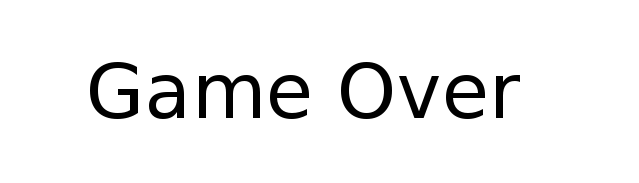
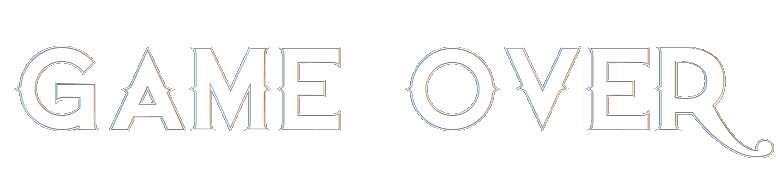
Ajout nouvelles images et maj comportementale
Même commit que le précédent dans le bon dossier.

Changed region(s): [[0.0, 0.2473, 1.0, 0.8516], [0.9515, 0.8516, 0.9812, 0.8791], [0.5649, 0.2473, 0.5947, 0.2747]]

diff --git a/project/src/enemy.h b/project/src/enemy.h
@@ -21,6 +21,10 @@ namespace iv = irr::video;
 namespace ig = irr::gui;
 
 #define ATTACK_DIST_ENEMY 45
+#define ANGLE_NORMAL 60
+#define ANGLE_FURTIF 45
+#define RAYON_NORMAL 500
+#define RAYON_FURTIF 300
 
 /**
  * @brief Classe Enemy, herite de la classe Characters
@@ -53,7 +57,7 @@ public:
      * @param playerPosition : position du joueur
      * @param collMan : pointeur sur le gestionnaire de collision
      */
-    bool isPlayerInEnemyView(const ic::vector3df& playerPosition, irr::scene::ISceneCollisionManager *collMan);
+    void isPlayerInEnemyView(const ic::vector3df& playerPosition, irr::scene::ISceneCollisionManager *collMan);
 
     /**
      * @brief Access a l'angle de vue de l'ennemi (1/2 du vrai angle de vision)
@@ -76,8 +80,9 @@ public:
      * @param playerPosition : la position du joueur
      * @param frameDeltaTime : delta t entre les frames
      * @param collMan : manager de collision
+     * @param isPlayerFurtif : true si le joueur est en position furtive, false sinon
      */
-    bool normalBehaviour(ic::vector3df playerPosition, const irr::f32 frameDeltaTime, irr::scene::ISceneCollisionManager *collMan);
+    bool normalBehaviour(ic::vector3df playerPosition, const irr::f32 frameDeltaTime, irr::scene::ISceneCollisionManager *collMan, bool isPlayerFurtif);
 
     /**
      * @brief Fonction de prise de degats.
@@ -98,18 +103,16 @@ private:
     void idle();
 
     /**
-     * @brief Methode utilisé pour suivre le joueur, avance simplement la position de l'ennemi en direction du joueur selon le delta T en mettant une animation de run
-     * Si la distance entre la position actuelle de l'ennemi et sa position precedemment enregistre est superieur a X, on l'enregistre
+     * @brief Methode utilisé pour suivre le joueur, avance simplement la position de l'ennemi en direction du joueur selon le delta T en mettant une animation de run.
+     * Si la distance entre la position actuelle de l'ennemi et sa position precedemment enregistre est superieur a X, on l'enregistre.
      * @param playerPosition : la position actuelle du joueur
      * @param frameDeltaTime : le delta t correspondant a la frame actuelle
-     * @param sizePositions : la taille du tableau de positions
      */
     void followPlayer(ic::vector3df playerPosition, const irr::f32 frameDeltaTime);
 
     /**
      * @brief Fonction de retour a la position initiale de l'ennemi : l'ennemi parcours les positions enregistre jusqu'a arrive a celle de départ
      * @param frameDeltaTime : delta T entre les frames, utilisé pour déplacé l'ennemi
-     * @param sizePositions : la taille du tableau de positions
      */
     void getBackToOriginalPosition(const irr::f32 frameDeltaTime);
 
@@ -122,7 +125,7 @@ private:
     /**
      * @brief Determine si l ennemi peut attaquer ou non.
      * Il peut attaquer s il n est pas deja en train, s il ne subit pas une attaque (sauf s il lui reste un point de vie unique).
-     * @return true si on peut attaquer, false sinon.
+     * @return true si l ennemi peut attaquer, false sinon.
      */
     bool canAttack();
 
@@ -141,14 +144,24 @@ private:
      */
     void attack();
 
-    int angleViewEnemy;                 /*!< Angle de vision de l'ennemi par rapport au centre de sa vision */
-    int rayonDetection;                 /*!< Rayon de detection de l ennemi */
-    bool isPlayerVisible;                 /*!< Booleen indiquant si le joueur est visible par l'ennemi */
-    bool isAlerted;                     /*!< Booleen indiquant si l'ennemi est en etat d'alerte */
-    int distWithPlayer;                 /*!< distance avec le joueur */
-    ic::array<ic::vector3df> alertedPositions; /*!< Positions successives de l'ennemi pour retour en etat non alerte */
-    Path followedPath;  /*!< Path suivi par l'ennemi */
-    bool hitted;
+    /**
+     * @brief Met a jour les variables de detection en fonction de l etat d alerte de l ennemi.
+     */
+    void updateDetectParameter(bool isPlayerFurtif);
+
+    /**
+     * @brief Met a jour la vitesse en fonction de l etat d alerte de l ennemi.
+     */
+    void updateSpeed();
+
+    int angleViewEnemy;                         /*!< Angle de vision de l'ennemi par rapport au centre de sa vision */
+    int rayonDetection;                         /*!< Rayon de detection de l ennemi */
+    bool isPlayerVisible;                       /*!< Booleen indiquant si le joueur est visible par l'ennemi */
+    bool isAlerted;                             /*!< Booleen indiquant si l'ennemi est en etat d'alerte */
+    int distWithPlayer;                         /*!< distance avec le joueur */
+    ic::array<ic::vector3df> alertedPositions;  /*!< Positions successives de l'ennemi pour retour en etat non alerte */
+    Path followedPath;                          /*!< Path suivi par l'ennemi */
+    bool hitted;                                /*!< Booleen indiquant si l ennemi a ete touche par une attaque */
 };
 
 #endif

diff --git a/project/src/enemy.cpp b/project/src/enemy.cpp
@@ -7,12 +7,12 @@
 #include "enemy.h"
 
 Enemy::Enemy(is::IAnimatedMeshSceneNode* _node, is::EMD2_ANIMATION_TYPE _animation, float _speed)
-    : Characters (_node, _animation, _speed), angleViewEnemy(45), rayonDetection(300), isPlayerVisible(false), isAlerted(false), hitted(false)
+    : Characters (_node, _animation, _speed), angleViewEnemy(ANGLE_NORMAL), rayonDetection(RAYON_NORMAL), isPlayerVisible(false), isAlerted(false), hitted(false)
 {
     int startingPos = rand()%4;
     followedPath = Path(startingPos);
-    followedPath.initRectangularPath(getPosition(), 100);//Initialisation d'un chemin rectangulaire centre sur l'ennemi
-    node->setPosition(followedPath.pathPositions[startingPos]);//La position de l'ennemi est place sur la premiere position du chemin
+    followedPath.initRectangularPath(getPosition(), 100);       //Initialisation d'un chemin rectangulaire centre sur l'ennemi
+    node->setPosition(followedPath.pathPositions[startingPos]); //La position de l'ennemi est place sur la premiere position du chemin
     node->setVisible(true);
 }
 
@@ -64,7 +64,8 @@ bool Enemy::canAttack()
     if(isAttacking)
         return false;
 
-    if (((life == 1) || (distWithPlayer <= ATTACK_DIST_ENEMY && !isSuffering)) && isPlayerVisible)
+    // si l ennemi est suffisament proche, qu il voit le joueur et qu il est 1 de vie ou ne soit pas en train de souffrir
+    if(distWithPlayer <= ATTACK_DIST_ENEMY && isPlayerVisible && (life == 1 || !isSuffering))
     {
         attack();
         return true;
@@ -79,6 +80,28 @@ void Enemy::attack()
     node->setLoopMode(false);
     node->setAnimationEndCallback(this);
     node->setMD2Animation(is::EMAT_ATTACK);
+}
+
+void Enemy::updateDetectParameter(bool isPlayerFurtif)
+{
+    if(isPlayerFurtif && !isAlerted)    // si l ennemi n est pas alerte et que le joueur est en position furtive
+    {
+        angleViewEnemy = ANGLE_FURTIF;  // alors son angle de vision est plus faible
+        rayonDetection = RAYON_FURTIF;  // et il voit le joueur de moins loin
+    }
+    else
+    {
+        angleViewEnemy = ANGLE_NORMAL;
+        rayonDetection = RAYON_NORMAL;
+    }
+}
+
+void Enemy::updateSpeed()
+{
+    if(isAlerted)
+        speed = ENEMY_SPEED_ALERTED;
+    else
+        speed = ENEMY_SPEED;
 }
 
 void Enemy::OnAnimationEnd(is::IAnimatedMeshSceneNode *node)
@@ -96,7 +119,7 @@ void Enemy::OnAnimationEnd(is::IAnimatedMeshSceneNode *node)
 }
 
 
-bool Enemy::isPlayerInEnemyView(const ic::vector3df& playerPosition, irr::scene::ISceneCollisionManager *collMan)
+void Enemy::isPlayerInEnemyView(const ic::vector3df& playerPosition, irr::scene::ISceneCollisionManager *collMan)
 {
     distWithPlayer = playerPosition.getDistanceFrom(getPosition());
     if(distWithPlayer < rayonDetection)//Si le joueur se trouve dans le cercle  => check dans le cone de vision de l'enemi
@@ -159,13 +182,12 @@ bool Enemy::isPlayerInEnemyView(const ic::vector3df& playerPosition, irr::scene:
                         }
 
                         isPlayerVisible = true;
-                        return true;
+                        return;
                     }
             }
         }
     }
     isPlayerVisible = false;
-    return false;
 }
 
 const int& Enemy::getAngleViewEnemy() const
@@ -262,29 +284,33 @@ void Enemy::followPath(const irr::f32 frameDeltaTime)
     }
 }
 
-bool Enemy::normalBehaviour(ic::vector3df playerPosition, const irr::f32 frameDeltaTime, is::ISceneCollisionManager* collMan)
+bool Enemy::normalBehaviour(ic::vector3df playerPosition, const irr::f32 frameDeltaTime, is::ISceneCollisionManager* collMan, bool isPlayerFurtif)
 {
     if (!life)
         return false;
 
+    updateDetectParameter(isPlayerFurtif);
+
+    updateSpeed();
+
     isPlayerInEnemyView(playerPosition, collMan);
 
-    if(isPlayerVisible || hitted)//Si je joueur est visible par l'ennemie
+    if(isPlayerVisible || hitted)       // Si je joueur est visible par l'ennemie ou s il a ete frappe entre deux maj
     {
         followPlayer(playerPosition, frameDeltaTime);
     }
     else
     {
-        if(isAlerted)//Si enemie en alerte,retour sur la position de départ
+        if(isAlerted)                   // Si enemie en alerte, retour sur la position de départ
         {
             getBackToOriginalPosition (frameDeltaTime);
         }
-        else //Si non alerte,  parcours normal
+        else                            // Si non alerte, parcours normal
         {
             followPath(frameDeltaTime);
         }
     }
 
-    hitted = false;
-    return canAttack();
+    hitted = false;                     // on remet toujours ce booleen a false en fin de maj
+    return canAttack();                 // on verifie a la fin de la maj si l ennemi peut attaquer
 }

diff --git a/project/src/screenManager.cpp b/project/src/screenManager.cpp
@@ -52,9 +52,7 @@ void ScreenManager::updateState(float width, float height, int life)
         displayInfo(titleImage);
         displayInfo(newGame_button);
         displayInfo(quitGame_button);
-
         hideInfo(restartGame_button);
-        //hideInfo(menu);
 
         hideLife();
     }
@@ -75,7 +73,6 @@ void ScreenManager::updateState(float width, float height, int life)
         displayInfo(restartGame_button);
         restartGame_button->setEnabled(true);
         displayInfo(quitGame_button);
-        //hideInfo(menu);
 
         life = 0;   // on affiche une barre de vie vide en cas de game over
     }
@@ -154,23 +151,23 @@ void ScreenManager::init_quitGame_button(irr::video::IVideoDriver *driver)
 void ScreenManager::init_title(irr::video::IVideoDriver *driver)
 {
     iv::ITexture * basicTexture = driver->getTexture("data/Title.png");
-    titleImage = g->addImage(ic::rect<irr::s32>(screen_width/2 - screen_width/3, screen_height/4 - screen_height/12,
-                                                screen_width/2 + screen_width/3, screen_height/4 + screen_height/12));
-    titleImage->setScaleImage(false);
+    titleImage = g->addImage(ic::rect<irr::s32>(0, 0,
+                             screen_width, screen_height/2 - screen_height/50));
+    titleImage->setScaleImage(true);
     titleImage->setImage(basicTexture);
     titleImage->setVisible(false);
-    titleImage->setAlignment(ig::EGUIA_CENTER, ig::EGUIA_CENTER, ig::EGUIA_UPPERLEFT, ig::EGUIA_LOWERRIGHT);
+    titleImage->setAlignment(ig::EGUIA_UPPERLEFT, ig::EGUIA_LOWERRIGHT, ig::EGUIA_UPPERLEFT, ig::EGUIA_CENTER);
 }
 
 void ScreenManager::init_gameOver(irr::video::IVideoDriver *driver)
 {
     iv::ITexture * basicTexture = driver->getTexture("data/gameOver.png");
-    gameOverImage = g->addImage(ic::rect<irr::s32>(screen_width/2 - screen_width/3, screen_height/4 - screen_height/12,
-                                                   screen_width/2 + screen_width/3, screen_height/4 + screen_height/12));
-    gameOverImage->setScaleImage(false);
+    gameOverImage = g->addImage(ic::rect<irr::s32>(screen_width/8, 0,
+                             7 * screen_width/8, screen_height/2 - screen_height/12));
+    gameOverImage->setScaleImage(true);
     gameOverImage->setImage(basicTexture);
     gameOverImage->setVisible(false);
-    gameOverImage->setAlignment(ig::EGUIA_CENTER, ig::EGUIA_CENTER, ig::EGUIA_UPPERLEFT, ig::EGUIA_LOWERRIGHT);
+    gameOverImage->setAlignment(ig::EGUIA_UPPERLEFT, ig::EGUIA_LOWERRIGHT, ig::EGUIA_UPPERLEFT, ig::EGUIA_CENTER);
 }
 
 void ScreenManager::init_pain(irr::video::IVideoDriver *driver)

diff --git a/project/src/menu.cpp b/project/src/menu.cpp
@@ -49,7 +49,7 @@ void Menu::create_menu(ig::IGUIEnvironment *gui)
 void Menu::create_window(ig::IGUIEnvironment *gui)
 {
     // La fenêtre
-    window = gui->addWindow(ic::rect<s32>(0,20, 400,200), false, L"Box de debug");
+    window = gui->addWindow(ic::rect<s32>(0,80, 400,200), false, L"Box de debug");
     window->getCloseButton()->setVisible(false);
     window->setDrawBackground(true);
     window->setVisible(false);
@@ -57,16 +57,4 @@ void Menu::create_window(ig::IGUIEnvironment *gui)
     // Une zone d'édition de texte, précédée d'un label
     gui->addStaticText(L"Position Joueur", ic::rect<s32>(20, 30, 400, 200), false, false, window, 0);
     gui->addStaticText(L"Lancer de rayon", ic::rect<s32>(20, 45, 400, 200), false, false, window, 1);
-}
-
-bool Menu::isVisible()
-{
-    return menu->isVisible();
-}
-
-void Menu::setVisible(bool visible)
-{
-    menu->setVisible(visible);
-    if(window->isVisible() && !visible)
-        window->setVisible(visible);
 }

diff --git a/project/src/scene.cpp b/project/src/scene.cpp
@@ -177,7 +177,7 @@ void Scene::playerAttack(const float &angleCamera)
     int ID = attack[0];
     int dist = attack[1];
 
-    if (ID != -1 && ID != ID_MAP)
+    if (enemyMap.find(ID) != enemyMap.end())
     {
         std::wstring wstr = L"ID: " + std::to_wstring(ID) + L" Distance: "+ std::to_wstring(dist);
         debugDisplay(wstr, 1);
@@ -259,7 +259,7 @@ void Scene::runTheGame(const f32 frameDeltaTime, const bool &playerIsAttacking, 
     if(!player.isDead())
     {
         for (std::map<int, Enemy>::iterator it = enemyMap.begin(); it!=enemyMap.end(); ++it)
-            if(it->second.normalBehaviour(player.getPosition(), frameDeltaTime, collMan))
+            if(it->second.normalBehaviour(player.getPosition(), frameDeltaTime, collMan, player.isPlayerFurtif()))
             {
                 player.getHitted();
                 scManager->displayPain(true);

diff --git a/project/src/player.h b/project/src/player.h
@@ -125,6 +125,12 @@ public:
      */
     void reset();
 
+    /**
+     * @brief Retourne la valeur de isFurtive
+     * @return true si le joueur est en position furtive, false sinon
+     */
+    bool isPlayerFurtif() const;
+
 private:
     /**
      * @brief Fonction qui passe l ennemi en etat de prise de degat, et qui lance l animation correspondante.

diff --git a/project/src/menu.h b/project/src/menu.h
@@ -31,10 +31,6 @@ public:
      */
     void create_window(ig::IGUIEnvironment *gui);
 
-    bool isVisible();
-
-    void setVisible(bool visible);
-
     ig::IGUIWindow* window;     /*!< Pointeur sur la fenetre d affichage de debug */
     ig::IGUIContextMenu* menu;  /*!< Pointeur sur menu du jeu */
 };

diff --git a/project/src/characters.h b/project/src/characters.h
@@ -13,6 +13,7 @@
 #define NORMAL_SPEED 150.0f
 #define STEALTH_SPEED 100.0f
 #define ENEMY_SPEED 80.0f
+#define ENEMY_SPEED_ALERTED 120.0f
 
 #define RAY_LENGTH 1000.0f
 #define MAX_LIFE 5

diff --git a/project/src/player.cpp b/project/src/player.cpp
@@ -166,6 +166,11 @@ bool Player::isDead()
     return life == 0;
 }
 
+bool Player::isPlayerFurtif() const
+{
+    return isFurtive;
+}
+
 void Player::getHitted()
 {
     if(!life)

diff --git a/project/src/scenedebug.cpp b/project/src/scenedebug.cpp
@@ -25,6 +25,7 @@ void SceneDebug::initBillboardDebug()
 
 void SceneDebug::init()
 {
+    initEnemyPosition();
     initMap();
     initTextures();
     initPlayer();

diff --git a/project/src/main.cpp b/project/src/main.cpp
@@ -9,7 +9,7 @@
 
 int main()
 {
-    Scene* scene = new Scene();
+    SceneDebug* scene = new SceneDebug();
     scene->run();
 
     return 0;
